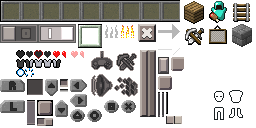
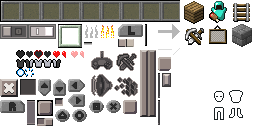
standardize UI toggle and slider components with unified scaling and constants

Changed region(s): [[0.0, 0.5938, 0.5625, 0.9688], [0.0, 0.1875, 0.625, 0.375], [0.5938, 0.4375, 0.7188, 0.9688]]

diff --git a/src/gpu/gui_atlas.h b/src/gpu/gui_atlas.h
@@ -3,51 +3,51 @@
 #define MCPSP_GPU_GUI_ATLAS_H
 
 #define GA_HDR_BODY          27.0f, 100.0f,   8.0f,  25.0f
-#define GA_HDR_LEFT         158.0f,  92.0f,   2.0f,  25.0f
-#define GA_HDR_RIGHT        162.0f,  92.0f,   2.0f,  25.0f
-#define GA_HDR_SHADOW        60.0f,  89.0f,   8.0f,   3.0f
+#define GA_HDR_LEFT         158.0f,  73.0f,   2.0f,  25.0f
+#define GA_HDR_RIGHT        158.0f, 100.0f,   2.0f,  25.0f
+#define GA_HDR_SHADOW        84.0f,  42.0f,   8.0f,   3.0f
 #define GA_HOTBAR             0.0f,   0.0f, 180.0f,  22.0f
-#define GA_HOTBAR_CAP       166.0f,  92.0f,   2.0f,  22.0f
+#define GA_HOTBAR_CAP       145.0f,  24.0f,   2.0f,  22.0f
 #define GA_ICONS              0.0f,  50.0f,  88.0f,  27.0f
-#define GA_PSP_CIRCLE        87.0f, 109.0f,  15.0f,  13.0f
-#define GA_PSP_CROSS        121.0f, 100.0f,  15.0f,  13.0f
-#define GA_PSP_DOWN          55.0f, 100.0f,  13.0f,  17.0f
-#define GA_PSP_L              0.0f, 100.0f,  25.0f,  13.0f
-#define GA_PSP_LEFT          70.0f,  79.0f,  17.0f,  13.0f
-#define GA_PSP_R              0.0f,  79.0f,  25.0f,  13.0f
-#define GA_PSP_RIGHT         70.0f,  94.0f,  17.0f,  13.0f
-#define GA_PSP_SQUARE       104.0f, 100.0f,  15.0f,  13.0f
-#define GA_PSP_TRIANGLE      70.0f, 109.0f,  15.0f,  13.0f
-#define GA_PSP_UP            45.0f,  79.0f,  13.0f,  17.0f
-#define GA_SEL_FRAME         78.0f,  24.0f,  24.0f,  24.0f
-#define GA_SLOT_BG           27.0f,  79.0f,  16.0f,  16.0f
+#define GA_PSP_CIRCLE        72.0f, 109.0f,  15.0f,  13.0f
+#define GA_PSP_CROSS        106.0f, 100.0f,  15.0f,  13.0f
+#define GA_PSP_DOWN          53.0f,  79.0f,  13.0f,  17.0f
+#define GA_PSP_L            118.0f,  24.0f,  25.0f,  13.0f
+#define GA_PSP_LEFT          68.0f,  79.0f,  17.0f,  13.0f
+#define GA_PSP_R              0.0f, 100.0f,  25.0f,  13.0f
+#define GA_PSP_RIGHT         68.0f,  94.0f,  17.0f,  13.0f
+#define GA_PSP_SQUARE        89.0f, 100.0f,  15.0f,  13.0f
+#define GA_PSP_TRIANGLE      55.0f, 109.0f,  15.0f,  13.0f
+#define GA_PSP_UP            38.0f,  79.0f,  13.0f,  17.0f
+#define GA_SEL_FRAME         58.0f,  24.0f,  24.0f,  24.0f
+#define GA_SLOT_BG           20.0f,  79.0f,  16.0f,  16.0f
 #define GA_SLOT_BOOTS       228.0f, 105.0f,  16.0f,  16.0f
 #define GA_SLOT_CHESTPLATE  228.0f,  88.0f,  16.0f,  16.0f
 #define GA_SLOT_HELMET      211.0f,  88.0f,  16.0f,  16.0f
 #define GA_SLOT_LEGGINGS    211.0f, 105.0f,  16.0f,  16.0f
 #define GA_SS_ARROW         158.0f,  24.0f,  22.0f,  31.0f
-#define GA_SS_CLOSE         138.0f,  24.0f,  18.0f,  18.0f
+#define GA_SS_CLOSE           0.0f,  79.0f,  18.0f,  18.0f
 #define GA_SS_CRAFTBTN      140.0f,  50.0f,  16.0f,  67.0f
 #define GA_SS_CRAFTICONS    182.0f,   0.0f,  72.0f,  48.0f
-#define GA_SS_FLAME         104.0f,  24.0f,  32.0f,  16.0f
+#define GA_SS_FLAME          84.0f,  24.0f,  32.0f,  16.0f
 #define GA_SS_OPTCAT         90.0f,  50.0f,  48.0f,  48.0f
-#define GA_SS_PANE           60.0f,  79.0f,   8.0f,   8.0f
-#define GA_SS_PANEL         158.0f,  76.0f,  14.0f,  14.0f
-#define GA_SS_ROW           166.0f, 116.0f,  16.0f,   8.0f
-#define GA_SS_SLIDER_KNOB   158.0f,  57.0f,  11.0f,  17.0f
+#define GA_SS_PANE           55.0f,  98.0f,   8.0f,   8.0f
+#define GA_SS_PANEL         123.0f, 100.0f,  14.0f,  14.0f
+#define GA_SS_ROW           118.0f,  39.0f,  16.0f,   8.0f
+#define GA_SS_SLIDER_KNOB   162.0f,  73.0f,   9.0f,  14.0f
 #define GA_SS_SLOT           37.0f, 118.0f,  16.0f,   8.0f
-#define GA_SS_TABBTN        171.0f,  57.0f,  14.0f,  14.0f
-#define GA_SS_TOGGLE          0.0f,  24.0f,  76.0f,  20.0f
+#define GA_SS_TABBTN        158.0f,  57.0f,  14.0f,  14.0f
+#define GA_SS_TOGGLE          0.0f,  24.0f,  56.0f,  15.0f
 #define GA_SS_WINDOW         37.0f, 100.0f,  16.0f,  16.0f
 
 #define GA_HDR_BODY_X      27.0f
 #define GA_HDR_BODY_Y     100.0f
 #define GA_HDR_LEFT_X     158.0f
-#define GA_HDR_LEFT_Y      92.0f
-#define GA_HDR_RIGHT_X    162.0f
-#define GA_HDR_RIGHT_Y     92.0f
-#define GA_HDR_SHADOW_X    60.0f
-#define GA_HDR_SHADOW_Y    89.0f
+#define GA_HDR_LEFT_Y      73.0f
+#define GA_HDR_RIGHT_X    158.0f
+#define GA_HDR_RIGHT_Y    100.0f
+#define GA_HDR_SHADOW_X    84.0f
+#define GA_HDR_SHADOW_Y    42.0f
 #define GA_HOTBAR_X         0.0f
 #define GA_HOTBAR_Y         0.0f
 #define GA_ICONS_X          0.0f
@@ -58,16 +58,16 @@
 #define GA_SS_CRAFTBTN_Y   50.0f
 #define GA_SS_CRAFTICONS_X 182.0f
 #define GA_SS_CRAFTICONS_Y   0.0f
-#define GA_SS_FLAME_X     104.0f
+#define GA_SS_FLAME_X      84.0f
 #define GA_SS_FLAME_Y      24.0f
 #define GA_SS_OPTCAT_X     90.0f
 #define GA_SS_OPTCAT_Y     50.0f
-#define GA_SS_PANE_X       60.0f
-#define GA_SS_PANE_Y       79.0f
-#define GA_SS_ROW_X       166.0f
-#define GA_SS_ROW_Y       116.0f
-#define GA_SS_SLIDER_KNOB_X 158.0f
-#define GA_SS_SLIDER_KNOB_Y  57.0f
+#define GA_SS_PANE_X       55.0f
+#define GA_SS_PANE_Y       98.0f
+#define GA_SS_ROW_X       118.0f
+#define GA_SS_ROW_Y        39.0f
+#define GA_SS_SLIDER_KNOB_X 162.0f
+#define GA_SS_SLIDER_KNOB_Y  73.0f
 #define GA_SS_SLOT_X       37.0f
 #define GA_SS_SLOT_Y      118.0f
 #define GA_SS_TOGGLE_X      0.0f

diff --git a/src/client/gui/screens/screen_options.cpp b/src/client/gui/screens/screen_options.cpp
@@ -263,7 +263,7 @@ static const float kCatIconUV[OPT_CATEGORIES][2] = {
     { OPT_CAT_ICON, OPT_CAT_ICON }, { 0.0f, OPT_CAT_ICON },
 };
 
-static const float kOptRowH    = 14.0f;
+static const float kOptRowH    = 16.0f;
 static const float kOptHeaderH = 9.0f;
 static float optionRowY(int category, int row, float y0) {
     float y = y0;
@@ -447,8 +447,9 @@ void OptionsScreen::renderContent(MenuState& s) {
             unsigned int togTint  = rowDisabled ? 0xFF707070u : WHITE;
 
             const float kWidgetMargin = 6.0f;
-            const float togW = 26.6f, togH = 14.0f;
-            const float sliderW = 60.0f, sliderH = 20.0f;
+            const float togW = TOGGLE_CELL_W, togH = TOGGLE_CELL_H;
+
+            const float sliderW = 60.0f, sliderH = kOptRowH;
             bool isBool = optionRowIsBoolean(row);
             int  nVals  = rowValueCount(optCategory, r);
 
@@ -473,31 +474,33 @@ void OptionsScreen::renderContent(MenuState& s) {
             if (isBool) {
 
                 guiOptionSwitch(s, widgetX, rY + (rowH - togH) / 2.0f, togW, togH,
-                                valIdx == 1, rowHovered, togTint);
+                                valIdx == 1, rowHovered, togTint, 2.0f);
             } else {
 
+                const float K = 2.0f;
                 float sliderX = widgetX;
                 float sliderY = rY + (rowH - sliderH) / 2.0f;
-                float trackX0 = sliderX + 5.0f, barWidth = sliderW - 10.0f;
 
-                drawRect(trackX0 * UI_SCALE, (sliderY + 7.0f) * UI_SCALE,
-                         barWidth * UI_SCALE, 3.0f * UI_SCALE, 0xFF706C70u);
+                const float cy       = floorf((sliderY + sliderH * 0.5f) * UI_SCALE);
+                const float trackX0  = sliderX * UI_SCALE + 5.0f * K;
+                const float barWidth = sliderW * UI_SCALE - 10.0f * K;
+
+                drawRect(trackX0, cy - 1.5f * K, barWidth, 3.0f * K, 0xFF706C70u);
 
                 if (!row.percent && nVals > 2) {
                     float step = barWidth / (float)(nVals - 1);
-                    float tx = sliderX + 4.0f;
+                    float tx = trackX0 - 1.0f * K;
                     for (int i = 0; i < nVals; i++, tx += step)
-                        drawRect(tx * UI_SCALE, (sliderY + 5.0f) * UI_SCALE,
-                                 4.0f * UI_SCALE, 7.0f * UI_SCALE, 0xFF908590u);
+                        drawRect(floorf(tx), cy - 3.5f * K, 4.0f * K, 7.0f * K, 0xFF908590u);
                 }
 
                 float progress = (nVals > 1) ? (float)valIdx / (float)(nVals - 1) : 0.0f;
-
-                float knobCx = (trackX0 + barWidth * progress) * UI_SCALE;
-                float knobCy = (sliderY + 8.5f) * UI_SCALE;
-                uiDraw(s, floorf(knobCx - 11.0f), floorf(knobCy - 17.0f),
-                       22.0f, 34.0f, 225.0f, 125.0f,
-                       GA_SS_SLIDER_KNOB_X, GA_SS_SLIDER_KNOB_Y, 11.0f, 17.0f, WHITE);
+                float knobCx = trackX0 + barWidth * progress;
+                uiDraw(s, floorf(knobCx - KNOB_CELL_W * K * 0.5f),
+                       cy - KNOB_CELL_H * K * 0.5f,
+                       KNOB_CELL_W * K, KNOB_CELL_H * K, 225.0f, 125.0f,
+                       GA_SS_SLIDER_KNOB_X, GA_SS_SLIDER_KNOB_Y,
+                       KNOB_CELL_W, KNOB_CELL_H, WHITE);
 
                 if (valTxt)
                     fontDrawTextShadow(&font, (sliderX - 4.0f) * UI_SCALE - valW * UI_SCALE,

diff --git a/src/client/gui/screens/screen_create.cpp b/src/client/gui/screens/screen_create.cpp
@@ -87,8 +87,9 @@ int toggleStep(const MenuState& s, int from, int dir) {
     return -1;
 }
 
-const float TOG_W   = 38.0f * PX;
-const float TOG_H   = 20.0f * PX;
+const float TOG_S   = 2.0f;
+const float TOG_W   = TOGGLE_CELL_W * TOG_S / UI_SCALE;
+const float TOG_H   = TOGGLE_CELL_H * TOG_S / UI_SCALE;
 const float TOG_ROW = ROW_BOX_H + 5.0f * PX;
 
 const char* modeDescription(int gamemode) {
@@ -341,15 +342,20 @@ void CreateScreen::renderContent(MenuState& s) {
             for (int i = FIELD_COUNT; i < ROW_COUNT; i++, togRowY += TOG_ROW) {
                 const bool on = genUsable && genFeatureEnabled(s.newWorldGenMask, rowFeature(i));
 
+                const float togRight = L.panelX + L.panelW - 5.0f * PX;
+                float labelW = (float)fontTextWidth(&font, rowLabel(i)) * TEXT_S / UI_SCALE;
+                float togX   = L.descX + labelW + 6.0f * PX;
+                if (togX + TOG_W > togRight) togX = togRight - TOG_W;
                 fontDrawTextClipped(&font, L.descX * UI_SCALE,
                                     (togRowY + (ROW_BOX_H - 8.0f * TEXT_S) / 2.0f) * UI_SCALE,
                                     rowLabel(i),
                                     !genUsable ? GUI_DISABLED
                                                : (sel == i ? 0xFFFFFFFFu : 0xFFE0E0E0u), TEXT_S,
-                                    (L.boxW - TOG_W - 2.0f) * UI_SCALE / TEXT_S);
-                guiOptionSwitch(s, L.descX + L.boxW - TOG_W,
+                                    (togX - 2.0f - L.descX) * UI_SCALE / TEXT_S);
+                guiOptionSwitch(s, togX,
                                 togRowY + (ROW_BOX_H - TOG_H) / 2.0f, TOG_W, TOG_H,
-                                on, sel == i, !genUsable ? GUI_DISABLED : 0xFFFFFFFFu);
+                                on, sel == i, !genUsable ? GUI_DISABLED : 0xFFFFFFFFu,
+                                TOG_S);
             }
         }
 

diff --git a/src/client/gui/hud.cpp b/src/client/gui/hud.cpp
@@ -875,11 +875,12 @@ void hotbarDraw(MenuState& s) {
     }
     }
 
-    bool overlayUp = g_invOpen || g_chestOpen || g_furnaceOpen ||
-                     g_craftOpen || g_armorOpen || g_paused ||
-                     (sleeping && g_barOnTop);
+    const bool screenUp = g_invOpen || g_chestOpen || g_furnaceOpen ||
+                          g_craftOpen || g_armorOpen || g_paused;
+
+    const bool statusHidden = g_barOnTop && sleeping;
     extern int g_cloudTicks;
-    if (!overlayUp && !g_level.player->inventory->isCreative() && s.haveGui && g_level.player) {
+    if (!statusHidden && !g_level.player->inventory->isCreative() && s.haveGui && g_level.player) {
         int hp = g_level.player->health; if (hp < 0) hp = 0;
         int hearts = g_level.player->getMaxHealth() / 2;
 
@@ -955,7 +956,7 @@ void hotbarDraw(MenuState& s) {
     }
 
     if (s.haveFont) s_chatFont = &s.font;
-    if (!overlayUp && s.haveFont) {
+    if (!screenUp && s.haveFont) {
         float now = gameSeconds();
         float ly = HUD_HOTBAR_TOP - 14.0f;
         for (int i = CHAT_LINES - 1; i >= 0; i--) {

diff --git a/src/client/gui/screens/menu_common.cpp b/src/client/gui/screens/menu_common.cpp
@@ -44,15 +44,17 @@ void uiDraw(MenuState& s, float x, float y, float w, float h,
 }
 
 void guiOptionSwitch(MenuState& s, float x, float y, float w, float h,
-                     bool on, bool hovered, unsigned int tint) {
+                     bool on, bool hovered, unsigned int tint, float scale) {
 
     (void)hovered;
-    const float dw = 38.0f, dh = 20.0f;
+    if (scale < 1.5f) scale = 1.0f; else scale = 2.0f;
+    const float dw = TOGGLE_CELL_W * scale, dh = TOGGLE_CELL_H * scale;
     const float px = floorf(x * UI_SCALE + (w * UI_SCALE - dw) / 2.0f);
     const float py = floorf(y * UI_SCALE + (h * UI_SCALE - dh) / 2.0f);
-    float onOff = on ? 38.0f : 0.0f;
+    float onOff = on ? TOGGLE_CELL_W : 0.0f;
     uiDraw(s, px, py, dw, dh,
-           160.0f + onOff, 206.0f, GA_SS_TOGGLE_X + onOff, GA_SS_TOGGLE_Y, 38.0f, 20.0f, tint);
+           160.0f + onOff, 206.0f, GA_SS_TOGGLE_X + onOff, GA_SS_TOGGLE_Y,
+           TOGGLE_CELL_W, TOGGLE_CELL_H, tint);
 }
 
 void drawMenuHeader(MenuState& s, const char* title, float x, float w, float h, float textScale,

diff --git a/src/client/gui/screens/menu.h b/src/client/gui/screens/menu.h
@@ -158,8 +158,15 @@ void guiTButton(MenuState& s, float x, float y, float w, float h, bool pressed,
 void guiTButtonLabel(MenuState& s, float x, float y, float w, float h,
                      const char* label, bool hovered, bool active, float scale = UI_SCALE);
 
+static const float TOGGLE_CELL_W = 28.0f;
+static const float TOGGLE_CELL_H = 15.0f;
+
+static const float KNOB_CELL_W = 9.0f;
+static const float KNOB_CELL_H = 14.0f;
+
 void guiOptionSwitch(MenuState& s, float x, float y, float w, float h,
-                     bool on, bool hovered, unsigned int tint = 0xFFFFFFFFu);
+                     bool on, bool hovered, unsigned int tint = 0xFFFFFFFFu,
+                     float scale = 1.0f);
 
 unsigned int menuSelectionSig(const MenuState& s);
 

diff --git a/src/client/gui/inventory_ui.cpp b/src/client/gui/inventory_ui.cpp
@@ -175,7 +175,7 @@ void inventoryDraw(MenuState& s) {
             }
         }
 
-        guiScrollbar(G(paneX + paneW) + G(2.0f), G(paneY), G(3.0f), G(paneH - clipBottom),
+        guiScrollbar(G(paneX + paneW) + G(2.0f), G(paneY), G(2.0f), G(paneH - clipBottom),
                      G(rows * ItemSize), G(scrollY),
                      (unsigned int)(scrollAlpha * 255.0f));
     }
